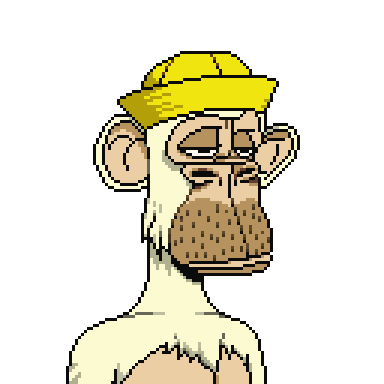
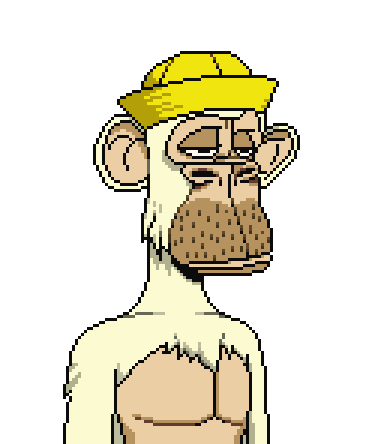
0919 commit

Changed region(s): [[0.1562, 0.0938, 0.7812, 1.0]]

diff --git a/style.css b/style.css
@@ -143,6 +143,9 @@ main section .long-button {
   line-height: 32px;
   text-align: center;
 }
+main section#main-section {
+  padding-bottom: 38px;
+}
 main section#main-section #main-background-cover {
   position: absolute;
   width: 100%;
@@ -160,13 +163,12 @@ main section#main-section #main-background {
 }
 main section#main-section .align-center {
   position: absolute;
-  z-index: 10;
-  width: 100%;
-  height: 100%;
+  height: calc(100% - 38px);
 }
 main section#main-section #i-want-you-box-1 {
-  width: 80vmin;
-  height: 60vmin;
+  position: relative;
+  width: 70vmin;
+  height: 70vmin;
   margin: auto;
   padding: 0.5vmin;
   border: 0.6vmin solid #c64353;
@@ -180,8 +182,8 @@ main section#main-section #i-want-you-box-1 #i-want-you-box-2 {
 main section#main-section #i-want-you-box-1 #i-want-you-box-2 #yellow-man-pixel-cover {
   position: absolute;
   top: -5%;
-  left: 23%;
-  width: 54%;
+  left: 15%;
+  width: 70%;
 }
 main section#main-section #i-want-you-box-1 #i-want-you-box-2 #yellow-man-pixel-cover.fade {
   opacity: 0;
@@ -190,8 +192,8 @@ main section#main-section #i-want-you-box-1 #i-want-you-box-2 #yellow-man-pixel-
 main section#main-section #i-want-you-box-1 #i-want-you-box-2 #yellow-man-pixel {
   position: absolute;
   top: -5%;
-  left: 23%;
-  width: 54%;
+  left: 15%;
+  width: 70%;
   opacity: 0;
 }
 main section#main-section #i-want-you-box-1 #i-want-you-box-2 #yellow-man-pixel.fade {
@@ -204,26 +206,45 @@ main section#main-section #i-want-you-box-1 #i-want-you-box-2 #i-want-you {
   left: 10%;
   width: 80%;
 }
-main section#main-section #main-opensea-button {
-  position: relative;
-  z-index: 2;
-  left: calc(50% - 140px);
-  bottom: 170px;
-  box-shadow: 0px 0px 24px rgba(0, 0, 0, 0.6);
+main section#main-section #i-want-you-box-1 #speech-bubble {
+  position: absolute;
+  top: 10%;
+  left: 75%;
 }
-main section#main-section #main-opensea-button img {
-  vertical-align: middle;
-  width: 30px;
-  padding-bottom: 5px;
-  margin-right: 5px;
+main section#main-section #i-want-you-box-1 #speech-bubble tr.long > td {
+  height: 70px;
+}
+main section#main-section #i-want-you-box-1 #speech-bubble td {
+  width: 5px;
+  height: 5px;
+}
+main section#main-section #i-want-you-box-1 #speech-bubble td.long {
+  width: 250px;
+}
+main section#main-section #i-want-you-box-1 #speech-bubble td.shadow {
+  box-shadow: 5px 5px rgba(0, 0, 0, 0.3);
+}
+main section#main-section #i-want-you-box-1 #speech-bubble #bubble-content {
+  color: #111111;
+  text-align: center;
+  font-size: 16px;
+  display: flex;
+  align-items: center;
+  line-height: 20px;
+}
+main section#main-section #i-want-you-box-1 #speech-bubble .black {
+  background-color: #111111;
+}
+main section#main-section #i-want-you-box-1 #speech-bubble .white {
+  background-color: #FFFFFF;
 }
 main section#main-section #main-scroll-button {
   position: absolute;
-  z-index: 2;
+  z-index: 20;
   width: 100%;
   height: 38px;
   background-color: #111111;
-  bottom: -0.5px;
+  bottom: 0;
 }
 main section#main-section #main-scroll-button img {
   height: 37.5px;
@@ -255,7 +276,7 @@ main section#next-yellow-man #random-pfps {
   flex-wrap: wrap;
   justify-content: space-between;
   align-content: space-between;
-  margin-bottom: 40px;
+  margin-bottom: 4vmin;
 }
 main section#next-yellow-man #random-pfps .pfp {
   height: 15vmin;
@@ -273,11 +294,11 @@ main section#next-yellow-man #random-pfps .pfp.clicked {
 }
 main section#next-yellow-man h1 {
   text-align: center;
-  margin-bottom: 20px;
+  margin-bottom: 2vmin;
 }
 main section#next-yellow-man p {
   text-align: center;
-  margin-bottom: 25px;
+  margin-bottom: 2.5vmin;
 }
 main section#next-yellow-man .text-button {
   font-size: 20px;
@@ -317,6 +338,30 @@ main section#about-section p {
 main section#about-section #whitepaper-button {
   display: block;
   margin: auto;
+}
+main section#process-section h1 {
+  text-align: center;
+  padding-bottom: 40px;
+}
+main section#process-section #process-wrapper {
+  display: flex;
+  justify-content: space-between;
+  margin: auto;
+  width: 90vmin;
+  margin-bottom: 7vmin;
+}
+main section#process-section #process-wrapper .process-set {
+  font-size: 18px;
+  text-align: center;
+}
+main section#process-section #process-wrapper .process-set .process-box {
+  width: 27vmin;
+  height: 18vmin;
+  border: 5px solid #F0C737;
+  margin-bottom: 2vmin;
+}
+main section#process-section h2 {
+  text-align: center;
 }
 main section#collections-section {
   display: flex;

diff --git a/index.html b/index.html
@@ -36,8 +36,8 @@
 			</div>
 			<div id="navigation" class="right">
 				<ul>
-					<li><a href="#" onclick="return move(1)">ABOUT</a></li>
-					<li><a href="#" onclick="return move(2)">COLLECTIONS</a></li>
+					<li><a href="#" onclick="return move(1)">WHO'S NEXT</a></li>
+					<li><a href="#" onclick="return move(2)">PROCESS</a></li>
 					<li><a href="#" onclick="return move(3)">TEAM</a></li>
 					<li><a href="#" onclick="return move(4)">JOIN US</a></li>
 				</ul>
@@ -56,14 +56,53 @@
 							<img id="yellow-man-pixel-cover" src="img/yellowman-pixel.png">
 							<img id="i-want-you" src="img/i-want-you.png">
 						</div>
+						<table id="speech-bubble">
+							<tr>
+								<td></td>
+								<td></td>
+								<td class="black long"></td>
+								<td></td>
+								<td></td>
+							</tr>
+							<tr>
+								<td></td>
+								<td class="black"></td>
+								<td class="white long"></td>
+								<td class="black"></td>
+								<td></td>
+							</tr>
+							<tr class="long">
+								<td class="black"></td>
+								<td class="white"></td>
+								<td id="bubble-content" class="white long">
+									<div id="bubble-content-inner">
+										I’m going to build a new country.
+										Bring my hard wallet!
+									</div>
+
+									
+								</td>
+								<td class="white  shadow"></td>
+								<td class="black shadow"></td>
+							</tr>
+							<tr>
+								<td></td>
+								<td class="black"></td>
+								<td class="white long shadow"></td>
+								<td class="black shadow"></td>
+								<td></td>
+							</tr>
+							<tr>
+								<td></td>
+								<td></td>
+								<td class="black long shadow"></td>
+								<td></td>
+								<td></td>
+							</tr>
+						</table>
 					</div>
 				</div>
 			</div>
-			
-			<button id="main-opensea-button" class="yellow long-button">
-				<img src="img/opensea-logo.svg">
-				Immigrate Now
-			</button>
 			<a href="#" onclick="return move(1)"><div id="main-scroll-button">
 				<img src="img/button_scroll.png">
 			</div></a>
@@ -109,7 +148,27 @@
 			</p>
 			<button id="whitepaper-button" class="yellow long-button">Yellows Whitepaper</button>
 		</section>
-		<section id="collections-section">
+		<section id="process-section">
+			<div class="align-center"><div class="align-center-inner">
+				<h1>Voting Process</h1>
+				<div id="process-wrapper">
+					<div class="process-set">
+						<div class="process-box"></div>
+						Buy Yellows NFT
+					</div>
+					<div class="process-set">
+						<div class="process-box"></div>
+						Vote for Next Yellow Man
+					</div>
+					<div class="process-set">
+						<div class="process-box"></div>
+						Buy Yellows NFT
+					</div>
+				</div>
+				<h2>Yellow Man Gets 50% of Creater Fee!</h2>
+			</div></div>
+		</section>
+		<section id="collections-section" style="display: none;">
 			<div id="section-left">
 				<img src="img/button_scroll.png" class="passport-side-button clockwise">
 				<div id="passport">
@@ -270,8 +329,6 @@
 	},{passive : false});
 
 	function move(sec) {
-
-		console.log('move ' + sec);
 
 		section = sec;
 
